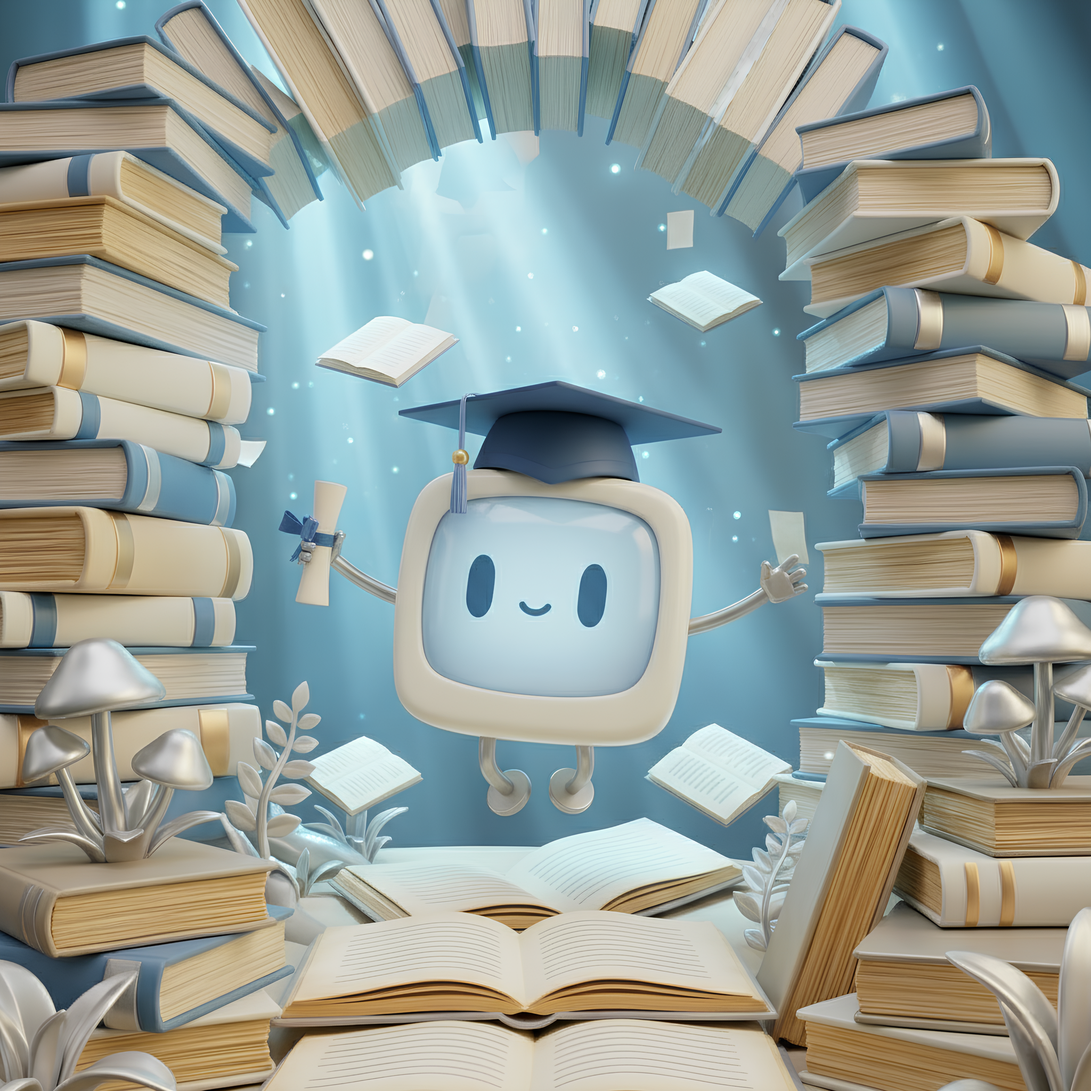
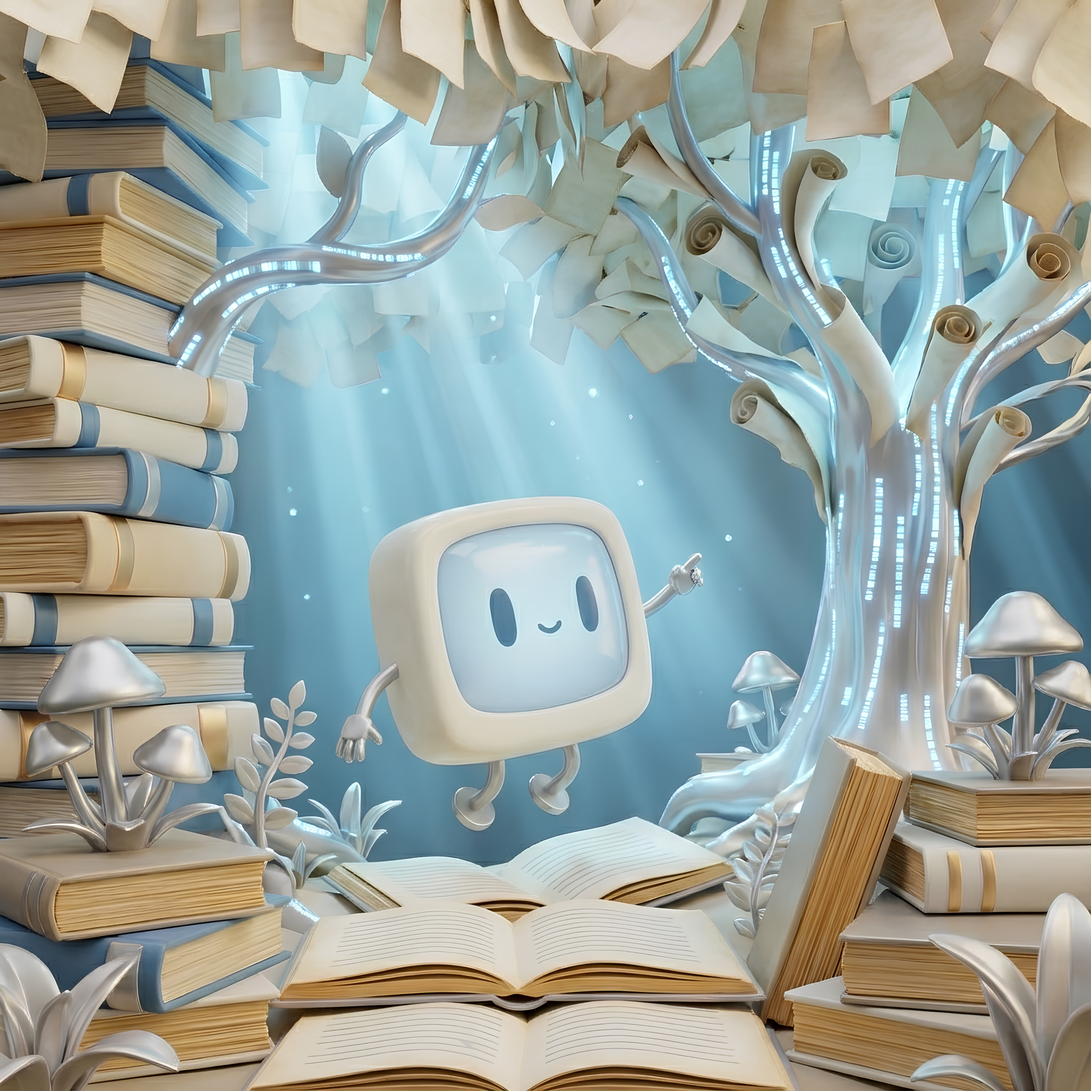
feat: remover página de cadastro e deixar apenas a página de login para entrar com SUAP

diff --git a/client/src/pages/unprotected/signin/index.jsx b/client/src/pages/unprotected/signin/index.jsx
@@ -1,22 +1,15 @@
-import { useEffect, useState } from 'react';
-import { Link, useNavigate } from 'react-router-dom';
+import { useEffect } from 'react';
+import { Link } from 'react-router-dom';
 import { IconArrowLeft, IconEye, IconEyeOff, IconLogin2, IconMail } from '@tabler/icons-react';
 import { Helmet } from 'react-helmet-async';
 import Footer from '../../../components/footer';
 import ProtectedRoute from '../../../components/protectedRoute';
-import { useAuthenticated } from '../../../context/authContext';
 import { useMessages } from '../../../context/messagesContext';
 import RenderMessages from '../../../components/renderMessages';
 import { POST } from '../../../api/auth';
 
 export default function SignIn() {
-    const [showPassword, setShowPassword] = useState(false);
-    const [email, setEmail] = useState('');
-    const [senha, setSenha] = useState('');
-    const [isLoading, setLoading] = useState(false);
-    const { setAuthenticated, setUser } = useAuthenticated();
     const { setMessages } = useMessages();
-    const navigate = useNavigate();
 
     useEffect(() => {
         const error = new URLSearchParams(window.location.search).get('suap_error');
@@ -41,37 +34,6 @@ export default function SignIn() {
         window.history.replaceState({}, '', window.location.pathname);
     }, [setMessages]);
 
-    function toggleShowPassword() {
-        setShowPassword(!showPassword);
-    }
-
-    async function submit(e) {
-        e.preventDefault();
-        setLoading(true);
-
-        try {
-            const data = await POST('/api/auth/login', { email, senha });
-            if (!data.ok) {
-                throw new Error(data.message);
-            }
-            setUser(data.user);
-            setAuthenticated(true);
-            navigate(data.redirect);
-        } catch (err) {
-            setMessages(prev => [
-                ...prev,
-                {
-                    id: prev.length + 1,
-                    message:
-                        err.name === 'SyntaxError' ? 'Ocorreu um problema com a resposta do servidor' : err.message,
-                    type: 'danger',
-                },
-            ]);
-        } finally {
-            setLoading(false);
-        }
-    }
-
     return (
         <ProtectedRoute isPrivate={false}>
             <Helmet>
@@ -94,115 +56,23 @@ export default function SignIn() {
                                 <IconArrowLeft className='stroke-color1-100' />
                             </button>
                         </Link>
-                        <form
-                            onSubmit={submit}
-                            className='box-content flex w-full max-w-80 flex-col gap-4'
-                        >
-                            <h2 className='bg-linear-to-tr from-color1-100 via-color1-400 to-color4-25 bg-clip-text font-primary text-[2.5rem]/[50px] font-bold text-transparent'>
-                                Login
+                        <article className='w-full max-w-md'>
+                            <h2 className='bg-linear-to-tr from-color1-100 via-color1-400 to-color4-25 bg-clip-text font-primary text-6xl font-semibold text-transparent'>
+                                Olá!
                             </h2>
-                            <div>
-                                <label
-                                    htmlFor='email'
-                                    className='block text-color1-100'
-                                >
-                                    Email
-                                </label>
-                                <div className='relative'>
-                                    <input
-                                        type='email'
-                                        id='email'
-                                        required
-                                        autoFocus
-                                        value={email}
-                                        onChange={e => setEmail(e.target.value)}
-                                        className='min-h-12 w-full rounded-lg bg-color4-100 pr-12 pl-4 outline-0'
-                                        placeholder='exemplo@gmail.com'
-                                    />
-                                    <label
-                                        htmlFor='email'
-                                        className='absolute top-[0.3rem] right-[0.3rem] grid aspect-square h-[2.4rem] cursor-text place-items-center rounded-sm hover:bg-color4-50'
-                                    >
-                                        <IconMail
-                                            size={26}
-                                            className='text-color1-100'
-                                        />
-                                    </label>
-                                </div>
-                            </div>
-                            <div>
-                                <label
-                                    htmlFor='senha'
-                                    className='block text-color1-100'
-                                >
-                                    Senha
-                                </label>
-                                <div className='relative'>
-                                    <input
-                                        type={showPassword ? 'text' : 'password'}
-                                        id='senha'
-                                        required
-                                        value={senha}
-                                        onChange={e => setSenha(e.target.value)}
-                                        className='min-h-12 w-full rounded-lg bg-color4-100 pr-12 pl-4 outline-0'
-                                        placeholder='Sua senha secreta...'
-                                    />
-                                    <button
-                                        type='button'
-                                        className='absolute top-[0.3rem] right-[0.3rem] grid aspect-square h-[2.4rem] cursor-pointer place-items-center rounded-sm hover:bg-color4-50'
-                                        onClick={toggleShowPassword}
-                                    >
-                                        {showPassword ? (
-                                            <IconEye
-                                                size={26}
-                                                className='stroke-color1-100'
-                                            />
-                                        ) : (
-                                            <IconEyeOff
-                                                size={26}
-                                                className='stroke-color1-100'
-                                            />
-                                        )}
-                                    </button>
-                                    <p className='text-right'>
-                                        <Link className='text-sm font-semibold text-color1-400 hover:underline'>
-                                            Esqueceu sua senha?
-                                        </Link>
-                                    </p>
-                                </div>
-                            </div>
+                            <p className='text-secundary mb-6 text-xl text-balance text-color3-25'>
+                                Inicie a sessão com o <strong className='text-color1-100'>SUAP</strong>
+                            </p>
                             <button
-                                type='submit'
-                                className='mt-2 min-h-12 cursor-pointer rounded-lg bg-button text-xl text-color4-100 transition-all duration-150 not-disabled:hover:shadow-lg-hard disabled:cursor-not-allowed disabled:opacity-60'
-                                disabled={isLoading}
-                            >
-                                Entrar
-                            </button>
-                            <div className='relative my-2'>
-                                <hr className='absolute top-1/2 h-0.5 w-full -translate-y-1/2 rounded-full bg-color3-25/20' />
-                                <span className='absolute top-1/2 left-1/2 -translate-x-1/2 -translate-y-1/2 bg-color4-200 px-2 font-semibold text-color3-25/40'>
-                                    Ou
-                                </span>
-                            </div>
-                            <button
-                                type='button'
-                                className='flex min-h-12 cursor-pointer items-center justify-center gap-2 rounded-lg border-2 border-color1-100 stroke-color1-100 px-4 py-2 text-lg text-color1-100 transition-all duration-100 hover:bg-button hover:stroke-color3-100 hover:text-color4-100'
+                                className='flex min-h-12 w-full cursor-pointer items-center justify-center gap-3 rounded-lg border-2 border-color1-100 stroke-color1-100 px-4 py-2 text-lg text-color1-100 transition-all duration-250 hover:bg-button hover:stroke-color3-100 hover:text-color4-100'
                                 onClick={() => window.location.assign('/api/auth/suap/login')}
-                                disabled={isLoading}
                             >
                                 <IconLogin2 size={32} />
-                                <span>Entrar com SUAP</span>
+                                <span>
+                                    Entrar com <strong>SUAP</strong>
+                                </span>
                             </button>
-                            <p className='mt-1 text-center text-color3-25'>
-                                Não tem uma conta?{' '}
-                                <Link
-                                    to='/cadastro'
-                                    className='font-bold text-color1-400 hover:underline'
-                                >
-                                    Cadastro
-                                </Link>
-                            </p>
-                        </form>
+                        </article>
                     </article>
                     <article className='hidden rounded-2xl bg-[url(/assets/images/mascote/login.webp)] bg-cover bg-center bg-no-repeat lg:block'></article>
                 </main>

diff --git a/client/src/components/header/index.jsx b/client/src/components/header/index.jsx
@@ -87,21 +87,11 @@ function Header() {
                         <li>
                             <Link
                                 to='/login'
-                                className='cursor-pointer rounded-lg border-2 border-color1-100 px-4 py-2 font-primary text-sm font-medium text-color1-100 transition-all duration-150 hover:bg-button hover:text-color4-100'
-                                onClick={closeMenu}
-                                prefetch='intent'
-                            >
-                                Login
-                            </Link>
-                        </li>
-                        <li>
-                            <Link
-                                to='/cadastro'
                                 className='cursor-pointer rounded-lg border-2 border-color1-100 bg-button px-4 py-2 font-primary text-sm font-medium text-color4-100 transition-all duration-150 hover:shadow-link'
                                 onClick={closeMenu}
                                 prefetch='intent'
                             >
-                                Cadastro
+                                Entrar
                             </Link>
                         </li>
                     </ul>

diff --git a/client/src/main.jsx b/client/src/main.jsx
@@ -6,7 +6,6 @@ import WrapperProvider from './context/wrapperProvider';
 import Loading from './components/loading';
 
 import Layout from './layout';
-const SignUp = lazy(() => import('./pages/unprotected/signup'));
 const SignIn = lazy(() => import('./pages/unprotected/signin'));
 const About = lazy(() => import('./pages/unprotected/about'));
 const LandingPage = lazy(() => import('./pages/unprotected/landingpage'));
@@ -95,14 +94,6 @@ const router = createBrowserRouter([
         element: (
             <Suspense fallback={<Loading />}>
                 <SignIn />
-            </Suspense>
-        ),
-    },
-    {
-        path: 'cadastro',
-        element: (
-            <Suspense fallback={<Loading />}>
-                <SignUp />
             </Suspense>
         ),
     },
